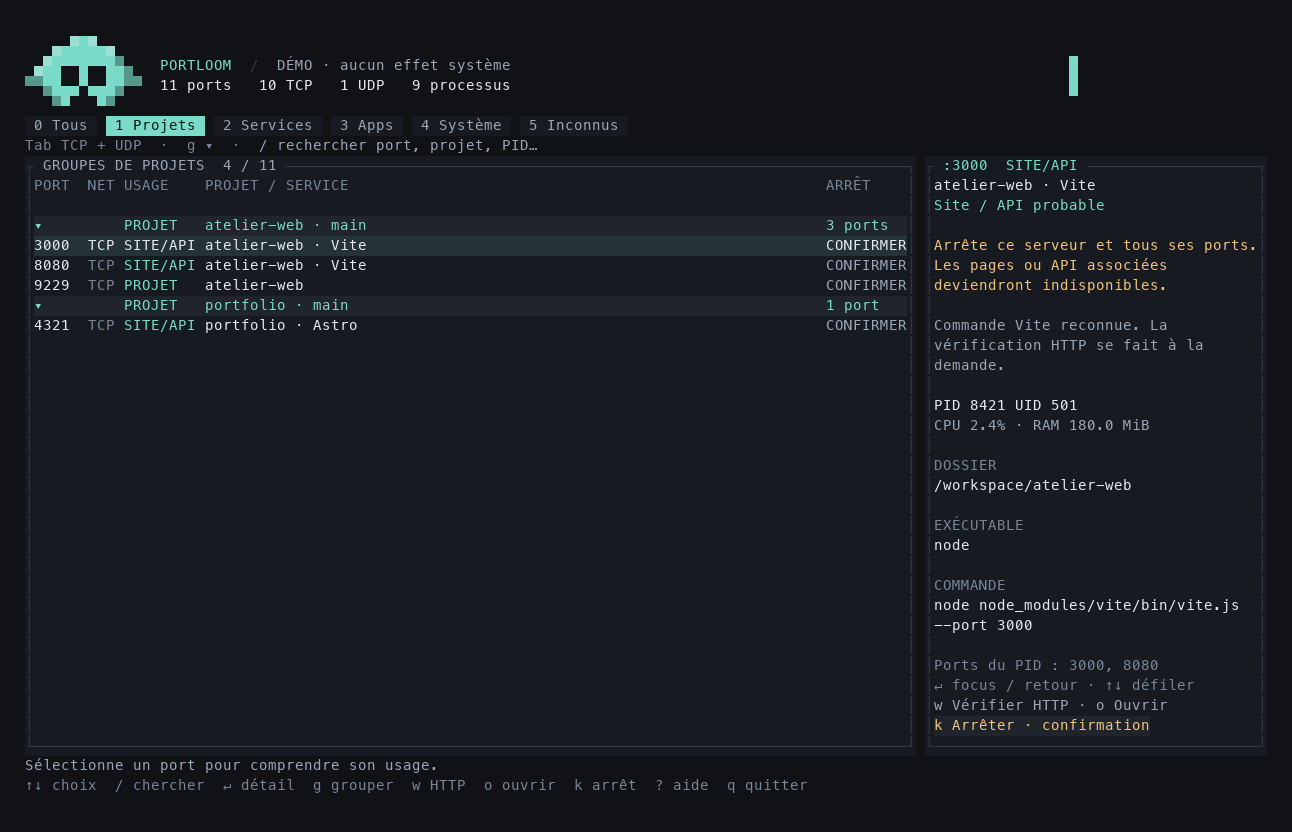
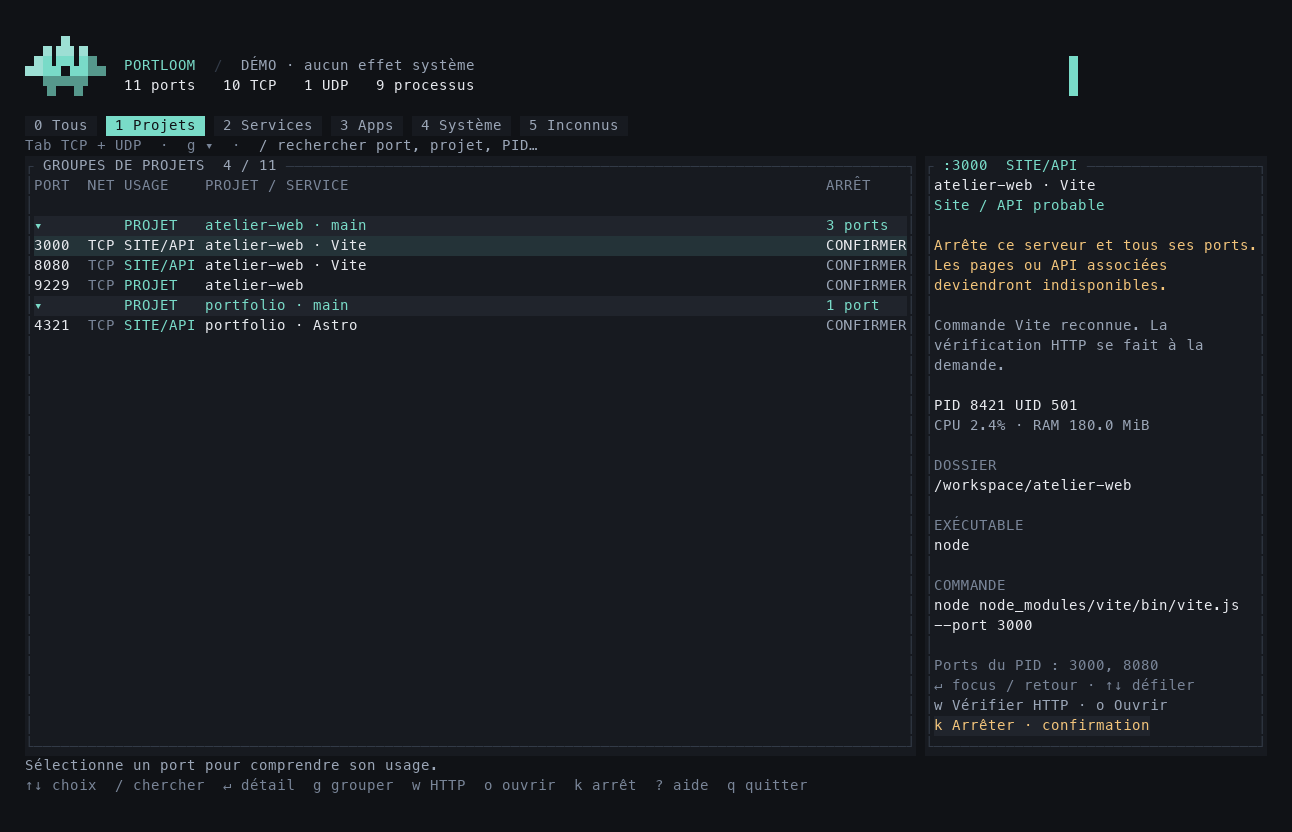
refine: render Pip with compact quarter-cell pixels

Changed region(s): [[0.0, 0.0312, 0.4025, 0.125]]

diff --git a/src/presentation/components/mascot.rs b/src/presentation/components/mascot.rs
@@ -4,70 +4,66 @@ use crate::presentation::{
 };
 use ratatui::{Frame, layout::Rect, style::Color};
 
-pub const WIDTH: u16 = 13;
-pub const HEIGHT: u16 = 4;
-type Pixels = [[u8; WIDTH as usize]; HEIGHT as usize * 2];
+pub const WIDTH: u16 = 9;
+pub const HEIGHT: u16 = 3;
+type Pixels = [[u8; WIDTH as usize * 2]; HEIGHT as usize * 2];
 
-// Two square pixels per terminal cell: a solid shell, antenna, eyes, arms and pins.
+// Quarter-cell pixels give the compact silhouette thin eyes, contours and feet.
 const BODY: Pixels = [
-    *b".....+#+.....",
-    *b"...+#####+...",
-    *b"..+#######=..",
-    *b".+##xx#xx##=.",
-    *b"==##xx#xx##==",
-    *b"..=###x###=..",
-    *b"...=#...#=...",
-    *b".............",
+    *b"........##........",
+    *b"....##x####x##....",
+    *b"..####x####x####..",
+    *b"########xx########",
+    *b"....##########....",
+    *b".....##....##.....",
+];
+const QUADRANTS: [&str; 16] = [
+    " ", "▘", "▝", "▀", "▖", "▌", "▞", "▛", "▗", "▚", "▐", "▜", "▄", "▙", "▟", "█",
 ];
 
 fn pixels(frame: AvatarFrame) -> Pixels {
     let mut pixels = BODY;
     if matches!(frame.pose, Pose::Blink | Pose::LookLeft | Pose::LookRight) {
-        for row in pixels.iter_mut().take(5).skip(3) {
-            row[3..10].fill(b'#');
+        for row in pixels.iter_mut().take(3).skip(1) {
+            row[4..14].fill(b'#');
         }
-        let eyes = match frame.pose {
-            Pose::LookLeft => [3, 4, 6, 7],
-            Pose::LookRight => [5, 6, 8, 9],
-            _ => [4, 5, 7, 8],
-        };
-        for x in eyes {
-            pixels[4][x] = b'x';
-            if frame.pose != Pose::Blink {
-                pixels[3][x] = b'x';
+        if frame.pose == Pose::Blink {
+            for x in [5, 6, 11, 12] {
+                pixels[2][x] = b'x';
+            }
+        } else {
+            let eyes = if frame.pose == Pose::LookLeft {
+                [5, 10]
+            } else {
+                [7, 12]
+            };
+            for x in eyes {
+                pixels[1][x] = b'x';
+                pixels[2][x] = b'x';
             }
         }
     }
     match frame.pose {
         Pose::WaveLow | Pose::WaveHigh => {
-            pixels[4][0..2].fill(b'.');
-            pixels[3][0..2].fill(b'#');
-            pixels[2][0] = b'+';
-            pixels[2][1] = b'#';
+            pixels[3][0..4].fill(b'.');
+            pixels[2][0..4].fill(b'#');
+            pixels[1][0..2].fill(b'#');
             if frame.pose == Pose::WaveHigh {
-                pixels[1][0] = b'+';
-                pixels[1][1] = b'#';
+                pixels[0][0..2].fill(b'#');
             }
         }
         Pose::StepLeft => {
-            pixels[6][3..5].fill(b'.');
-            pixels[6][2..4].fill(b'#');
+            pixels[5][5..7].fill(b'.');
+            pixels[5][4..6].fill(b'#');
         }
         Pose::StepRight => {
-            pixels[6][8..10].fill(b'.');
-            pixels[6][9..11].fill(b'#');
+            pixels[5][11..13].fill(b'.');
+            pixels[5][12..14].fill(b'#');
         }
         _ => {}
     }
     if matches!(frame.mood, Mood::Warning | Mood::Danger) {
-        for row in pixels.iter_mut().take(5).skip(3) {
-            row[5] = b'#';
-            row[7] = b'#';
-        }
-        pixels[5][5..8].fill(b'x');
-    }
-    if frame.pulse {
-        pixels[0][6] = b'*';
+        pixels[3][7..11].fill(b'x');
     }
     pixels
 }
@@ -86,25 +82,31 @@ pub fn render(frame: &mut Frame, avatar: AvatarFrame, area: Rect) {
         Mood::Paused => MUTED,
         _ => ACCENT,
     };
-    let color = |pixel| match pixel {
-        b'#' => body,
-        b'+' => mix(body, TEXT),
-        b'=' => mix(body, CANVAS),
-        b'*' => TEXT,
-        _ => CANVAS,
-    };
     let pixels = pixels(avatar);
     let area = area.intersection(frame.area());
     for y in 0..HEIGHT.min(area.height) {
         for x in 0..WIDTH.min(area.width) {
-            let top = color(pixels[usize::from(y) * 2][usize::from(x)]);
-            let bottom = color(pixels[usize::from(y) * 2 + 1][usize::from(x)]);
-            let cell = &mut frame.buffer_mut()[(area.x + x, area.y + y)];
-            if top == bottom {
-                cell.set_symbol(" ").set_bg(top);
-            } else {
-                cell.set_symbol("▀").set_fg(top).set_bg(bottom);
+            let px = usize::from(x) * 2;
+            let py = usize::from(y) * 2;
+            let mut mask = 0;
+            for (bit, dx, dy) in [(1, 0, 0), (2, 1, 0), (4, 0, 1), (8, 1, 1)] {
+                if pixels[py + dy][px + dx] == b'#' {
+                    mask |= bit;
+                }
             }
+            let color = if avatar.pulse && y == 0 && x == 4 {
+                TEXT
+            } else if y == 0 || x <= 1 {
+                mix(body, TEXT)
+            } else if y == 2 || x >= 7 {
+                mix(body, CANVAS)
+            } else {
+                body
+            };
+            frame.buffer_mut()[(area.x + x, area.y + y)]
+                .set_symbol(QUADRANTS[mask])
+                .set_fg(color)
+                .set_bg(CANVAS);
         }
     }
 }

diff --git a/src/presentation/view.rs b/src/presentation/view.rs
@@ -79,9 +79,9 @@ fn header(frame: &mut Frame, state: &State, area: Rect) {
         Rect::new(area.x, area.y, mascot::WIDTH, mascot::HEIGHT),
     );
     let area = Rect::new(
-        area.x + 15,
+        area.x + 11,
         area.y + 1,
-        area.width.saturating_sub(15),
+        area.width.saturating_sub(11),
         area.height.saturating_sub(1),
     );
     let mode = if state.demo {

diff --git a/docs/design/mascot.md b/docs/design/mascot.md
@@ -6,11 +6,11 @@ The user requested the visual weight and animation of a filled terminal characte
 
 | Decision | Reference | Application |
 | --- | --- | --- |
-| Filled, detailed pixel silhouette | User brief; [Claude Code terminal identity](https://github.com/anthropics/claude-code) | A 13 × 8 pixel sprite, rendered as 13 × 4 terminal cells with half-block characters. Dark eye cutouts, a lit upper edge and a shaded lower edge give it depth. |
+| Filled, detailed pixel silhouette | User brief; [Claude Code terminal identity](https://github.com/anthropics/claude-code) | A compact 18 × 6 pixel sprite, rendered as 9 × 3 terminal cells with quarter-block characters. Thin eye cutouts, a lit upper edge and a shaded lower edge give it depth. |
 | Expressive movement | User request; Refero motion guidance | A short hand wave, double blink and sideways glance while idle; stepping feet and a pulsing antenna during scans. Pause closes the eyes. Confirmation and errors freeze the pose. |
 | Preserve semantic color roles | Existing `design.rs` | Cyan shell, derived light/shadow shades; muted pause, amber confirmation, red error or force-stop. Text remains authoritative. |
 | Render changed poses only | [Ratatui rendering](https://ratatui.rs/concepts/rendering/) | The existing event loop computes deterministic poses. No animation thread or dependency. Working poses change at most once per 180 ms; idle poses have long still intervals. |
 | Reduced motion | Refero motion/accessibility guidance | `a` toggles motion for the session; `--no-motion` or `PORTLOOM_NO_MOTION` starts with a still sprite. State expressions and textual feedback remain available. |
 | Preserve the port table | Existing 60 × 20 minimum | Four header rows and two toolbar rows retain the previous combined height. The sprite never overlaps counts, the table or confirmation controls. |
 
-The sprite and its timing are presentation-only. They cannot trigger application actions. Half-block rendering uses the terminal's regular character grid, without emoji fonts, images or terminal extensions. Preview frames use demo data; the animated preview shows idle, scanning and pause behavior.
+The sprite and its timing are presentation-only. They cannot trigger application actions. Quarter-block rendering uses the terminal's regular character grid, without emoji fonts, images or terminal extensions. A clear row below the compact sprite separates its feet from navigation. Preview frames use demo data; the animated preview shows idle, scanning and pause behavior.
